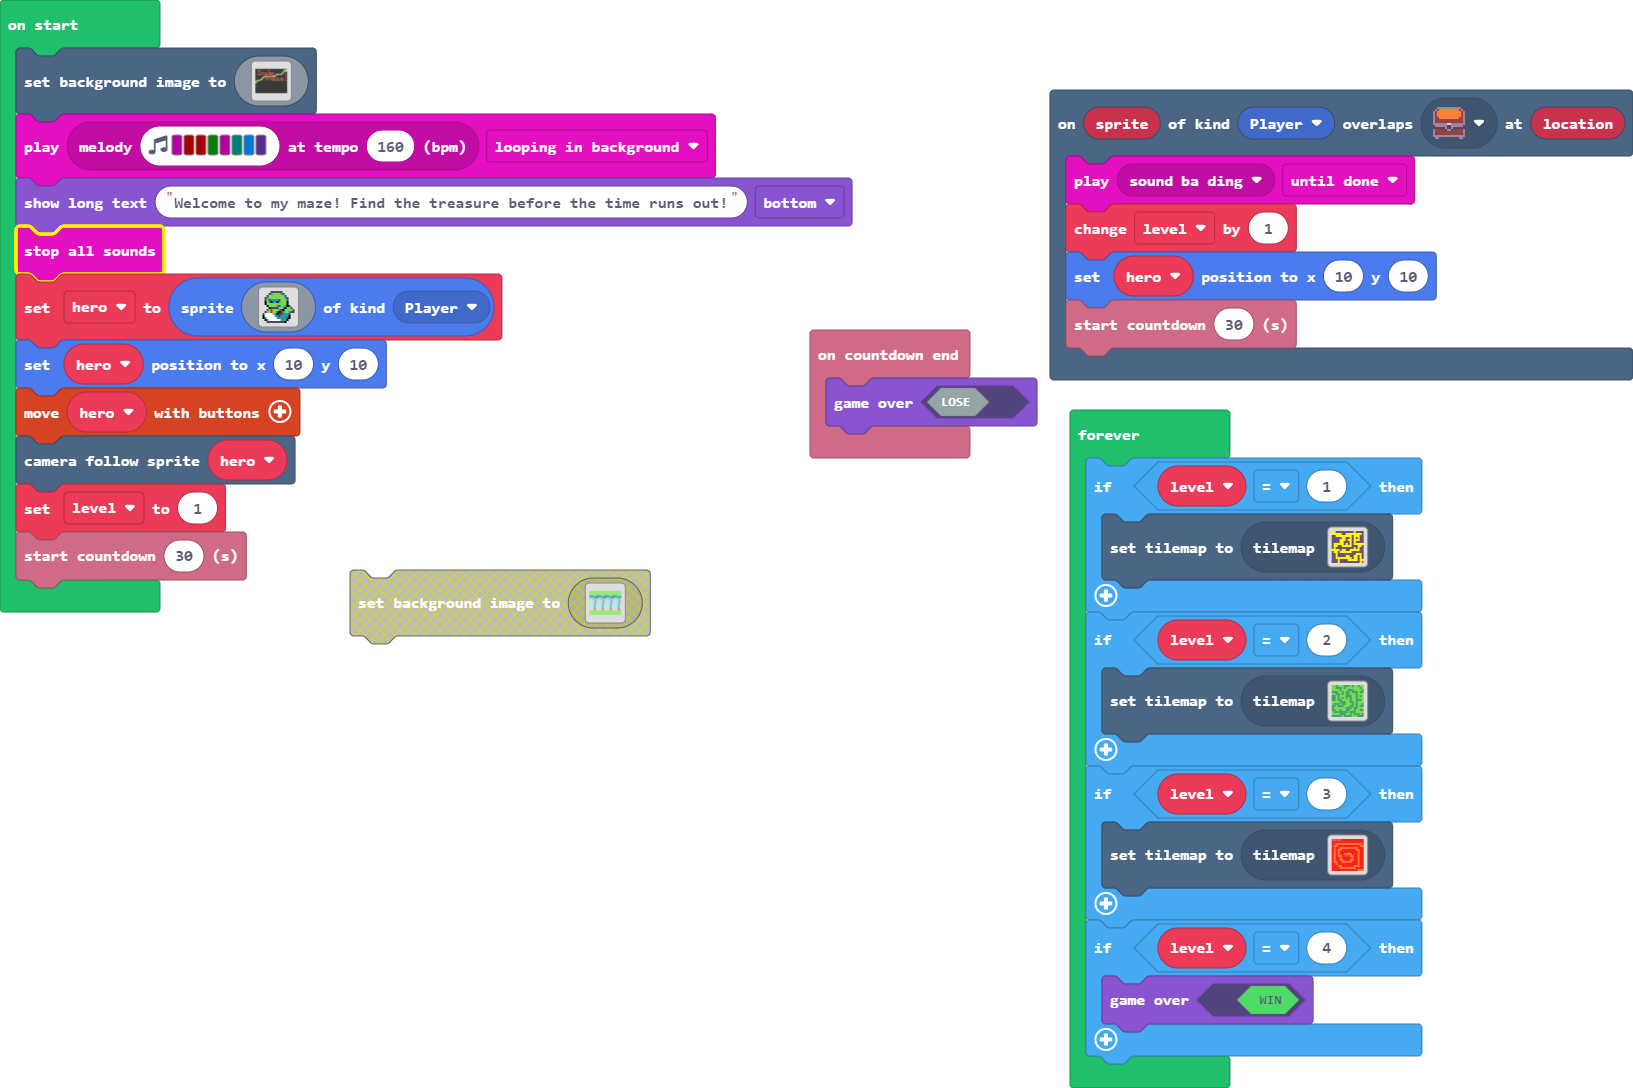
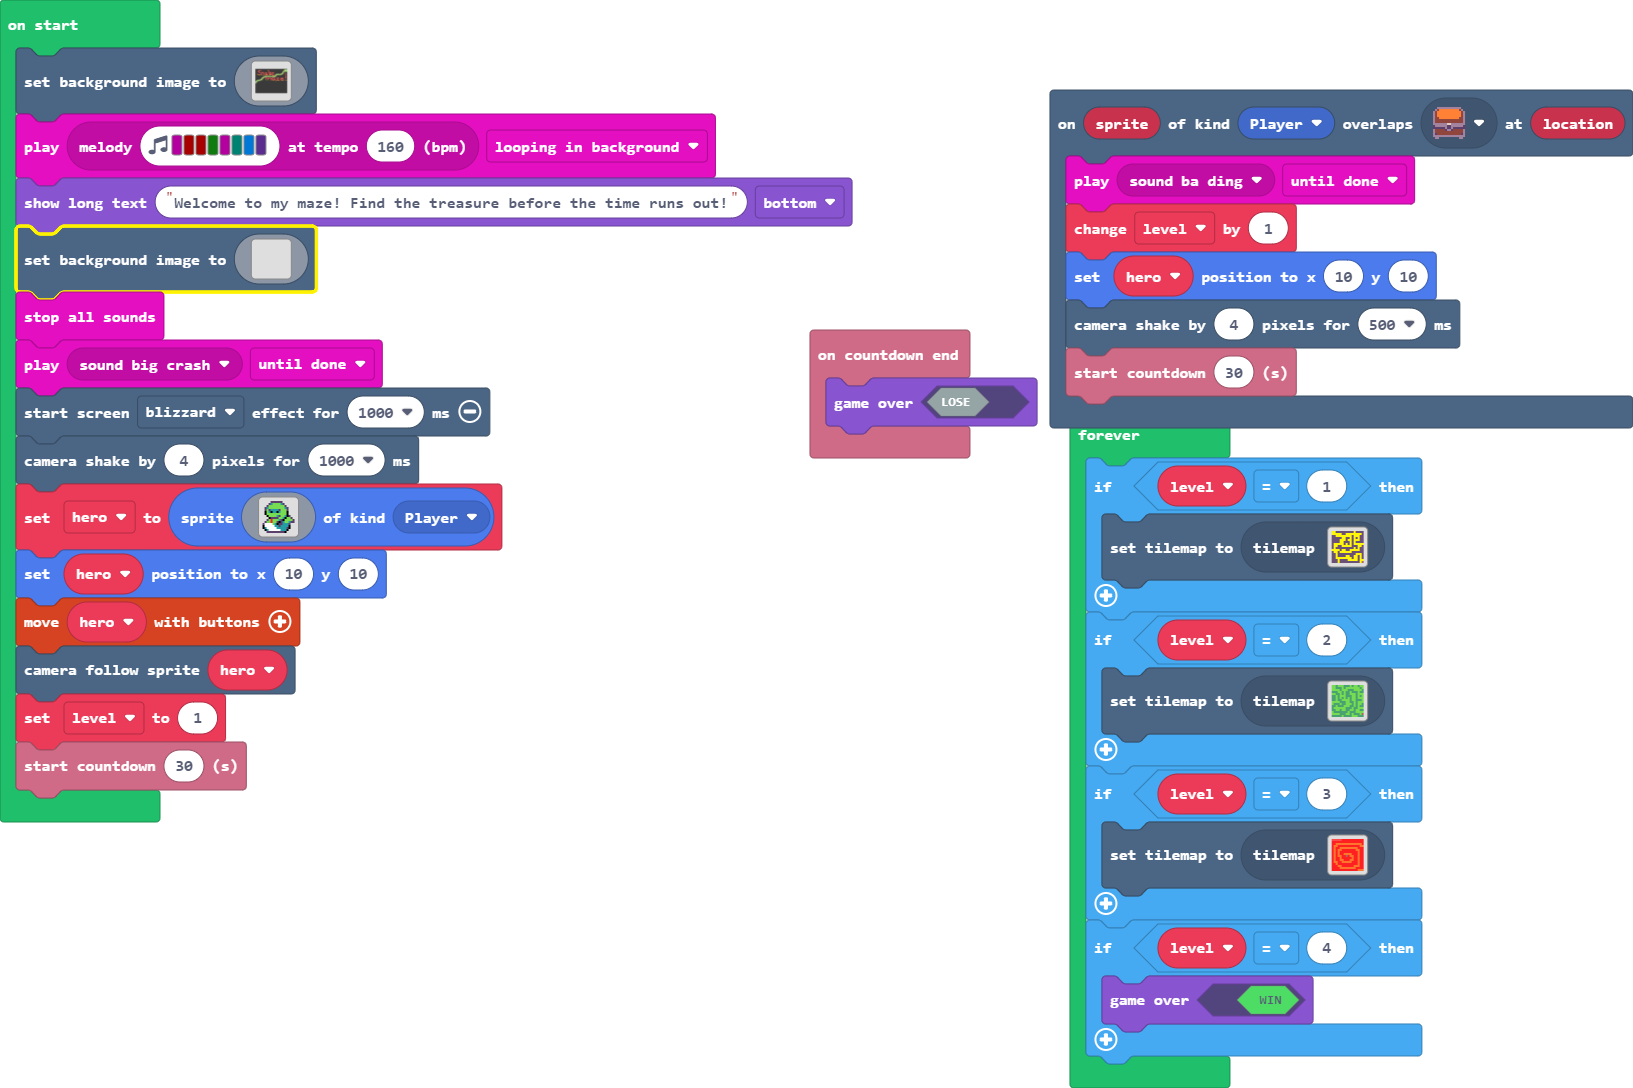
Update main.blocks, main.ts

Changed region(s): [[0.0, 0.1875, 0.406, 0.7812], [0.6246, 0.25, 1.0, 0.4062]]

diff --git a/main.ts b/main.ts
@@ -5,6 +5,7 @@ scene.onOverlapTile(SpriteKind.Player, sprites.dungeon.chestClosed, function (sp
     music.play(music.melodyPlayable(music.baDing), music.PlaybackMode.UntilDone)
     level += 1
     hero.setPosition(10, 10)
+    scene.cameraShake(4, 500)
     info.startCountdown(30)
 })
 let hero: Sprite = null
@@ -132,7 +133,132 @@ scene.setBackgroundImage(img`
     `)
 music.play(music.stringPlayable("C C5 C5 G C F E D ", 160), music.PlaybackMode.LoopingInBackground)
 game.showLongText("Welcome to my maze! Find the treasure before the time runs out!", DialogLayout.Bottom)
+scene.setBackgroundImage(img`
+    ................................................................................................................................................................
+    ................................................................................................................................................................
+    ................................................................................................................................................................
+    ................................................................................................................................................................
+    ................................................................................................................................................................
+    ................................................................................................................................................................
+    ................................................................................................................................................................
+    ................................................................................................................................................................
+    ................................................................................................................................................................
+    ................................................................................................................................................................
+    ................................................................................................................................................................
+    ................................................................................................................................................................
+    ................................................................................................................................................................
+    ................................................................................................................................................................
+    ................................................................................................................................................................
+    ................................................................................................................................................................
+    ................................................................................................................................................................
+    ................................................................................................................................................................
+    ................................................................................................................................................................
+    ................................................................................................................................................................
+    ................................................................................................................................................................
+    ................................................................................................................................................................
+    ................................................................................................................................................................
+    ................................................................................................................................................................
+    ................................................................................................................................................................
+    ................................................................................................................................................................
+    ................................................................................................................................................................
+    ................................................................................................................................................................
+    ................................................................................................................................................................
+    ................................................................................................................................................................
+    ................................................................................................................................................................
+    ................................................................................................................................................................
+    ................................................................................................................................................................
+    ................................................................................................................................................................
+    ................................................................................................................................................................
+    ................................................................................................................................................................
+    ................................................................................................................................................................
+    ................................................................................................................................................................
+    ................................................................................................................................................................
+    ................................................................................................................................................................
+    ................................................................................................................................................................
+    ................................................................................................................................................................
+    ................................................................................................................................................................
+    ................................................................................................................................................................
+    ................................................................................................................................................................
+    ................................................................................................................................................................
+    ................................................................................................................................................................
+    ................................................................................................................................................................
+    ................................................................................................................................................................
+    ................................................................................................................................................................
+    ................................................................................................................................................................
+    ................................................................................................................................................................
+    ................................................................................................................................................................
+    ................................................................................................................................................................
+    ................................................................................................................................................................
+    ................................................................................................................................................................
+    ................................................................................................................................................................
+    ................................................................................................................................................................
+    ................................................................................................................................................................
+    ................................................................................................................................................................
+    ................................................................................................................................................................
+    ................................................................................................................................................................
+    ................................................................................................................................................................
+    ................................................................................................................................................................
+    ................................................................................................................................................................
+    ................................................................................................................................................................
+    ................................................................................................................................................................
+    ................................................................................................................................................................
+    ................................................................................................................................................................
+    ................................................................................................................................................................
+    ................................................................................................................................................................
+    ................................................................................................................................................................
+    ................................................................................................................................................................
+    ................................................................................................................................................................
+    ................................................................................................................................................................
+    ................................................................................................................................................................
+    ................................................................................................................................................................
+    ................................................................................................................................................................
+    ................................................................................................................................................................
+    ................................................................................................................................................................
+    ................................................................................................................................................................
+    ................................................................................................................................................................
+    ................................................................................................................................................................
+    ................................................................................................................................................................
+    ................................................................................................................................................................
+    ................................................................................................................................................................
+    ................................................................................................................................................................
+    ................................................................................................................................................................
+    ................................................................................................................................................................
+    ................................................................................................................................................................
+    ................................................................................................................................................................
+    ................................................................................................................................................................
+    ................................................................................................................................................................
+    ................................................................................................................................................................
+    ................................................................................................................................................................
+    ................................................................................................................................................................
+    ................................................................................................................................................................
+    ................................................................................................................................................................
+    ................................................................................................................................................................
+    ................................................................................................................................................................
+    ................................................................................................................................................................
+    ................................................................................................................................................................
+    ................................................................................................................................................................
+    ................................................................................................................................................................
+    ................................................................................................................................................................
+    ................................................................................................................................................................
+    ................................................................................................................................................................
+    ................................................................................................................................................................
+    ................................................................................................................................................................
+    ................................................................................................................................................................
+    ................................................................................................................................................................
+    ................................................................................................................................................................
+    ................................................................................................................................................................
+    ................................................................................................................................................................
+    ................................................................................................................................................................
+    ................................................................................................................................................................
+    ................................................................................................................................................................
+    ................................................................................................................................................................
+    ................................................................................................................................................................
+    ................................................................................................................................................................
+    `)
 music.stopAllSounds()
+music.play(music.melodyPlayable(music.bigCrash), music.PlaybackMode.UntilDone)
+effects.blizzard.startScreenEffect(1000)
+scene.cameraShake(4, 1000)
 hero = sprites.create(img`
     . . . . c c c c c c . . . . . . 
     . . . c 6 7 7 7 7 6 c . . . . . 
